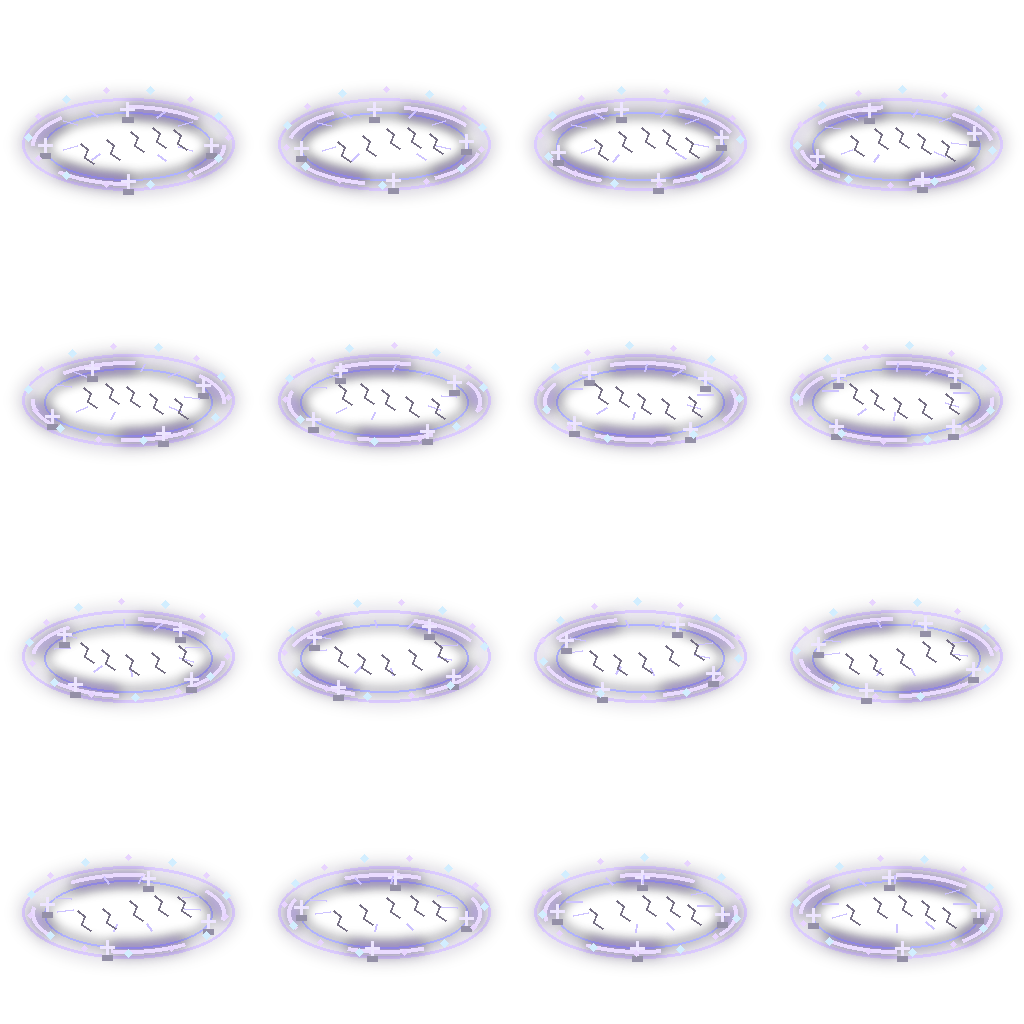
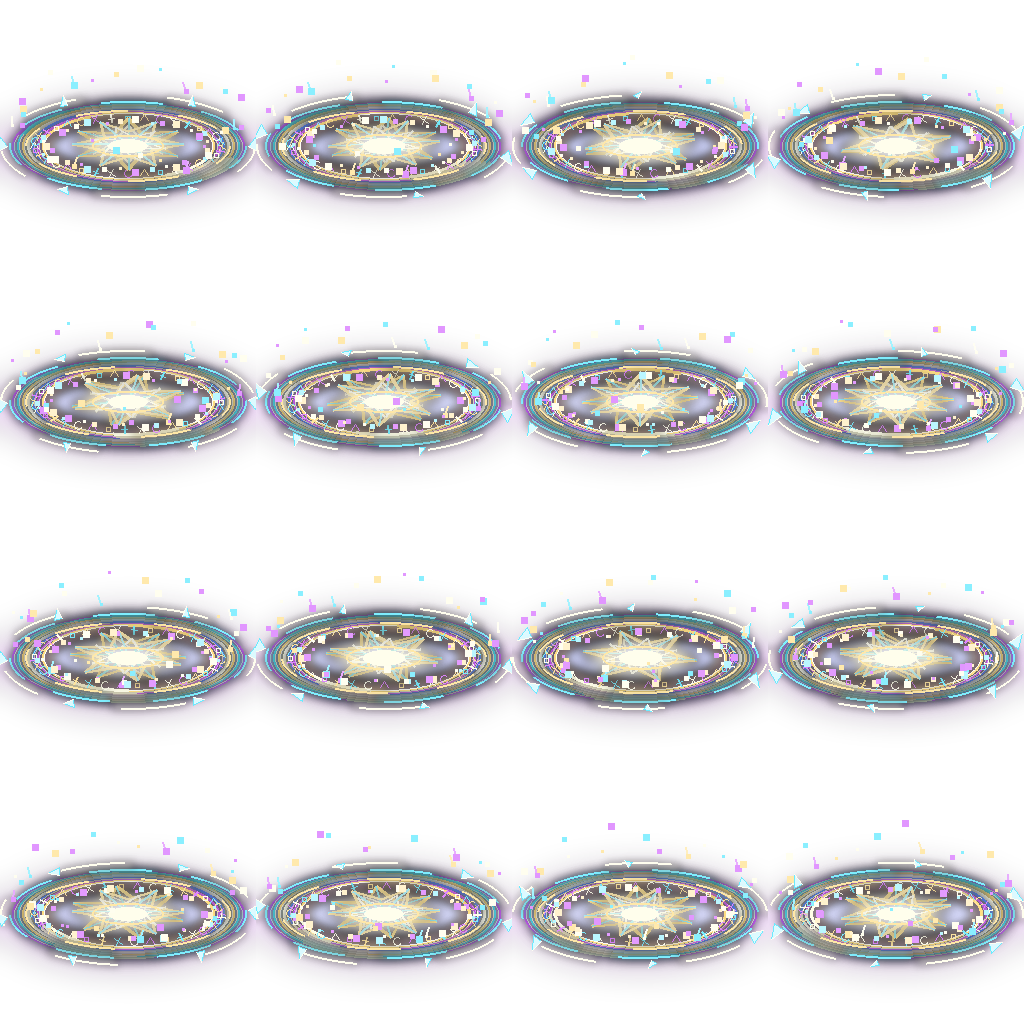
feat: add dedicated mvp aura stages

diff --git a/game.js b/game.js
@@ -1362,13 +1362,13 @@ const MVP_INSCRIPTION_AURA_FRAME_RATE = 14;
 const MVP_INSCRIPTION_AURA_SPRITE_SHEETS = Object.freeze({
   default: "assets/ui/fx/mvp-aura-early.png",
   kingPoring: "assets/ui/fx/mvp-aura-king-poring.png",
-  goldenThiefBug: "assets/ui/fx/mvp-aura-early.png",
-  moonlightFlower: "assets/ui/fx/mvp-aura-early.png",
-  drake: "assets/ui/fx/mvp-aura-early.png",
-  phreeoni: "assets/ui/fx/mvp-aura-early.png",
+  goldenThiefBug: "assets/ui/fx/mvp-aura-golden-thief-bug.png",
+  moonlightFlower: "assets/ui/fx/mvp-aura-moonlight-flower.png",
+  drake: "assets/ui/fx/mvp-aura-drake.png",
+  phreeoni: "assets/ui/fx/mvp-aura-phreeoni.png",
   orcHero: "assets/ui/fx/mvp-aura-orc-hero.png",
-  turtleGeneral: "assets/ui/fx/mvp-aura-advanced.png",
-  doppelganger: "assets/ui/fx/mvp-aura-advanced.png",
+  turtleGeneral: "assets/ui/fx/mvp-aura-turtle-general.png",
+  doppelganger: "assets/ui/fx/mvp-aura-doppelganger.png",
   darkLord: "assets/ui/fx/mvp-aura-dark-lord.png",
   baphomet: "assets/ui/fx/mvp-aura-baphomet.png",
 });
@@ -11982,9 +11982,9 @@ function drawMvpInscriptionAura(ctx, heroX, heroY, time) {
   const sx = (frame % MVP_INSCRIPTION_AURA_COLUMNS) * MVP_INSCRIPTION_AURA_FRAME_SIZE;
   const sy = Math.floor(frame / MVP_INSCRIPTION_AURA_COLUMNS) * MVP_INSCRIPTION_AURA_FRAME_SIZE;
   const isAdvanced = MVP_INSCRIPTION_AURA_ADVANCED_STAGE_IDS.has(stageId);
-  const width = isAdvanced ? 204 : 182;
-  const height = isAdvanced ? 126 : 112;
-  const footY = heroY + 58;
+  const width = isAdvanced ? 286 : 248;
+  const height = isAdvanced ? 178 : 154;
+  const footY = heroY + 50;
 
   ctx.save();
   ctx.globalAlpha = isAdvanced ? 0.88 : 0.78;
@@ -11997,7 +11997,7 @@ function drawMvpInscriptionAura(ctx, heroX, heroY, time) {
     MVP_INSCRIPTION_AURA_FRAME_SIZE,
     MVP_INSCRIPTION_AURA_FRAME_SIZE,
     heroX - width / 2,
-    footY - height * 0.56,
+    footY - height * 0.68,
     width,
     height
   );

diff --git a/index.html b/index.html
@@ -970,7 +970,7 @@
 <div class="toast" id="toast" role="status" aria-live="polite"></div>
 <script src="tools.js?v=20260529-battle-effects-v1"></script>
 <script src="data.js?v=20260529-battle-effects-v1"></script>
-<script src="game.js?v=20260530-mvp-aura-v2"></script>
+<script src="game.js?v=20260530-mvp-aura-v4"></script>
 <script type="module" src="./src/main.js?v=20260529-mvp-inscription-v2" onerror="document.documentElement.dataset.runeModuleStatus='failed'"></script>
   </body>
 </html>
